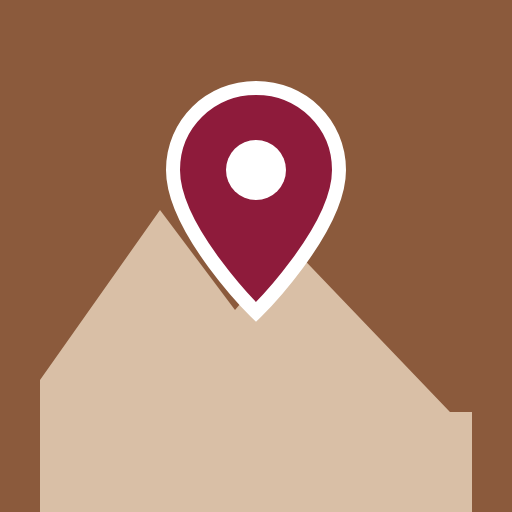
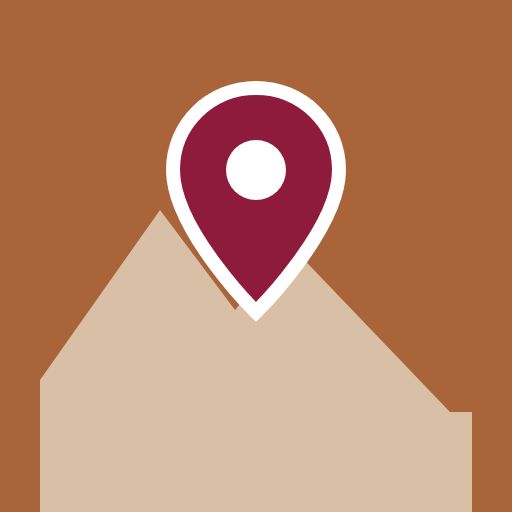
פלטה: חום כתמתם יותר
Claude-Session: https://claude.ai/code/session_013Kwds7u2CuKxLok7qAeEr5

diff --git a/index.html b/index.html
@@ -4,7 +4,7 @@
 <meta charset="utf-8">
 <meta name="viewport" content="width=device-width, initial-scale=1, viewport-fit=cover">
 <title>מפה לחיים טובים</title>
-<meta name="theme-color" content="#8b5a3c">
+<meta name="theme-color" content="#a9643a">
 <meta name="description" content="מקומות שווים בכל הארץ: יקבים, מעיינות, תצפיות, אוכל טוב ועוד – מאת ליעד וולמן, מורה דרך מהגולן">
 <link rel="manifest" href="manifest.webmanifest">
 <link rel="icon" href="icons/icon-192.png" type="image/png">
@@ -25,7 +25,7 @@ LAYOUT: a side panel on the right (search, regions, layers, list) and the map fi
 */
 :root{color-scheme:light dark;
 --bg:light-dark(#fbf8f4,#1a1613);--bg2:light-dark(#f1ebe3,#241e1a);--ink:light-dark(#3a2a20,#efe7df);--mute:light-dark(#76685d,#a89a8e);
---line:light-dark(#e6ddd2,#3a312b);--brand:light-dark(#8b5a3c,#d9a98a);--brandInk:light-dark(#ffffff,#1a1613);--accent:light-dark(#c06a35,#e8946a);--accentInk:light-dark(#ffffff,#1a1613);
+--line:light-dark(#e6ddd2,#3a312b);--brand:light-dark(#a9643a,#e0ad88);--brandInk:light-dark(#ffffff,#1a1613);--accent:light-dark(#cc6a2c,#ee9a66);--accentInk:light-dark(#ffffff,#1a1613);
 --land:light-dark(#f4f0e5,#1f2822);--land2:light-dark(#e4ddcc,#161c18);--sea:light-dark(#a9d3e0,#11303b);--water:light-dark(#3d8aa6,#6bb6cf);
 --bord:light-dark(#8f846c,#66766b);--lab:light-dark(#4f4a3d,#b4beb6);--reg:light-dark(#9a6a45,#c29a78);--shadow:light-dark(rgba(30,40,30,.18),rgba(0,0,0,.5))}
 :root[data-theme=light]{color-scheme:light}:root[data-theme=dark]{color-scheme:dark}
@@ -152,7 +152,7 @@ svg *{vector-effect:non-scaling-stroke}
   <aside class="panel" id="panel" aria-label="שכבות ורשימת מקומות">
     <button class="grab" id="grab" aria-label="סגירת החלונית"></button>
     <div class="brand">
-      <svg viewBox="0 0 44 44" aria-hidden="true"><circle cx="22" cy="22" r="22" fill="#8b5a3c"/><path d="M7 31l9-13 6 8 4-5 11 10z" fill="#d9bfa6"/><path d="M22 9c-3.6 0-6.5 2.8-6.5 6.4 0 4.7 6.5 11.1 6.5 11.1s6.5-6.4 6.5-11.1C28.5 11.8 25.6 9 22 9z" fill="#8E1B3B" stroke="#fff" stroke-width="1.6"/><circle cx="22" cy="15.4" r="2.4" fill="#fff"/></svg>
+      <svg viewBox="0 0 44 44" aria-hidden="true"><circle cx="22" cy="22" r="22" fill="#a9643a"/><path d="M7 31l9-13 6 8 4-5 11 10z" fill="#d9bfa6"/><path d="M22 9c-3.6 0-6.5 2.8-6.5 6.4 0 4.7 6.5 11.1 6.5 11.1s6.5-6.4 6.5-11.1C28.5 11.8 25.6 9 22 9z" fill="#8E1B3B" stroke="#fff" stroke-width="1.6"/><circle cx="22" cy="15.4" r="2.4" fill="#fff"/></svg>
       <div><h1>מפה לחיים טובים</h1><p>יקבים, מעיינות, תצפיות ומקומות שווים בכל הארץ</p></div>
     </div>
     <div class="search">

diff --git a/sw.js b/sw.js
@@ -1,5 +1,5 @@
 // המפה של ליעד – עובד ברקע: שומר את האפליקציה לשימוש גם בלי קליטה
-const VERSION = 'v3';
+const VERSION = 'v4';
 const APP = 'liadmap-app-' + VERSION, TILES = 'liadmap-tiles';
 const SHELL = ['./', 'index.html', 'manifest.webmanifest', 'icons/icon-192.png', 'icons/icon-512.png'];
 
